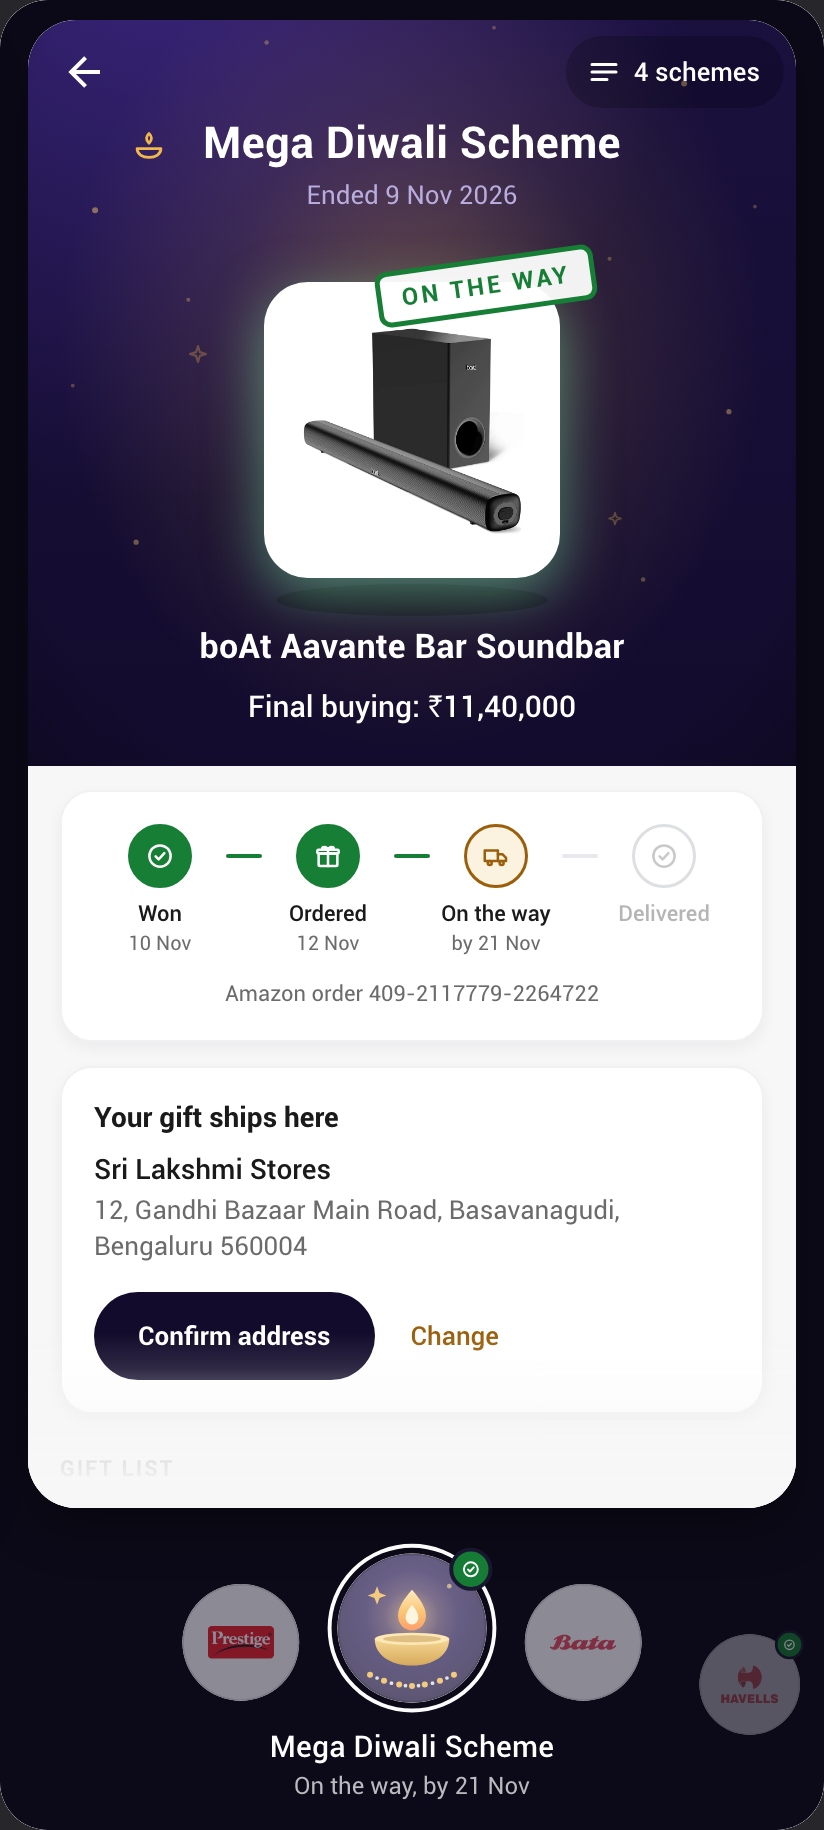
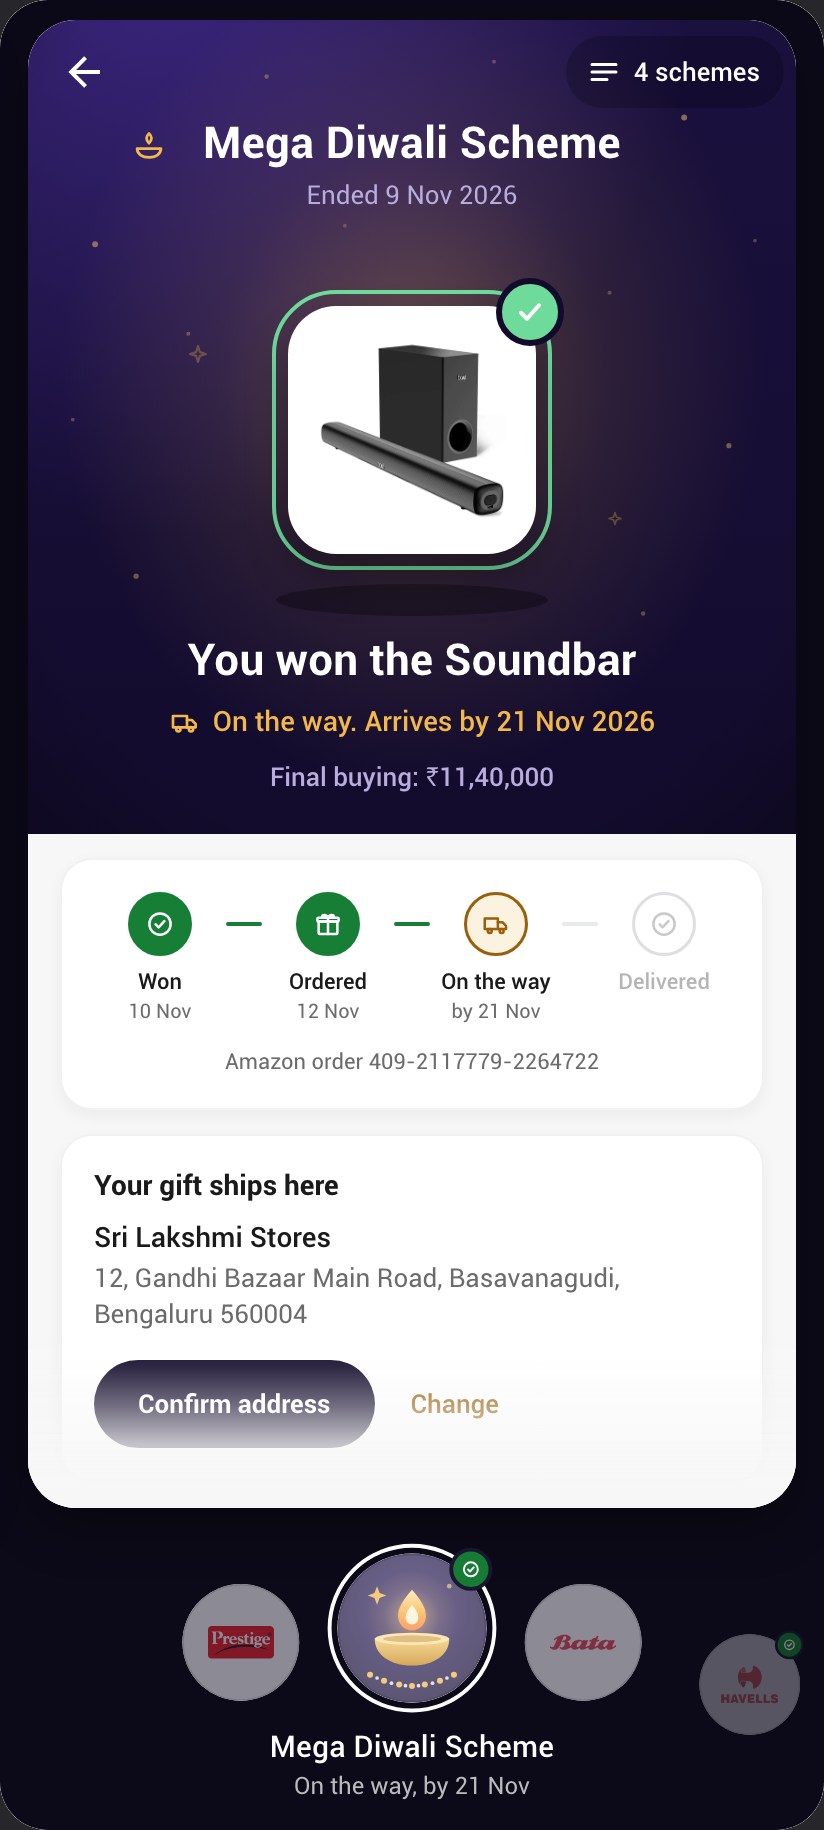
Won state: the ring and the seal replace the stamp
The won gift's tile wears the system's 'yours' ring (2 px settled green at
a 6 px gap) with a 34 px check seal cut into its corner; the sentence
'You won the X' leads at title weight; one status line in the colour of
its meaning carries the delivery. The rubber stamp is gone.

Changed region(s): [[0.0303, 0.1246, 0.9709, 0.8098], [0.5158, 0.6541, 0.7585, 0.7787]]

diff --git a/src/schemes/SchemePage.js b/src/schemes/SchemePage.js
@@ -19,7 +19,7 @@ import React, { useEffect, useRef, useState } from 'react';
 import { View, Text, Image, Pressable, ScrollView, StyleSheet, Animated, Easing, Platform } from 'react-native';
 import LottieView from 'lottie-react-native';
 import { LinearGradient } from 'expo-linear-gradient';
-import Svg, { Ellipse } from 'react-native-svg';
+import Svg, { Ellipse, Path } from 'react-native-svg';
 import { F } from '../theme';
 import { IconRunningMan, IconTargetFlag } from '../icons';
 import GiftGlyph from '../gifts/icons';
@@ -73,15 +73,17 @@ export function CtaButton({ label, bg, fg, glow = false, onPress, containerStyle
   );
 }
 
-// The stamp on a won gift: pressed onto the tile's corner, it lands with the
-// tile (opacity) and settles from 1.25 to 1, the way a stamp meets paper.
-function Stamp({ text, anim }) {
+// The seal on a won gift: the system's own "yours" mark, the green check, at
+// tile scale, set into the ring's top-right corner. It lands with the tile.
+function Seal({ anim, fill, cutout }) {
   return (
     <Animated.View
       pointerEvents="none"
-      style={[styles.stamp, { opacity: anim, transform: [{ rotate: '-8deg' }, { scale: anim.interpolate({ inputRange: [0, 1], outputRange: [1.25, 1] }) }] }]}
+      style={[styles.seal, { backgroundColor: fill, borderColor: cutout, opacity: anim, transform: [{ scale: anim.interpolate({ inputRange: [0, 1], outputRange: [0.6, 1] }) }] }]}
     >
-      <Text style={styles.stampText} allowFontScaling={false}>{text}</Text>
+      <Svg width={18} height={18} viewBox="0 0 24 24">
+        <Path d="M6 12.5l4 4 8-9" stroke="#fff" strokeWidth={2.6} strokeLinecap="round" strokeLinejoin="round" fill="none" />
+      </Svg>
     </Animated.View>
   );
 }
@@ -146,13 +148,14 @@ export default function SchemePage({ scheme, active, first, offset, bottomPad, o
   const deliveredLabel = scheme.fulfilment.deliveredAt ? ddMMM(scheme.fulfilment.deliveredAt) : '';
   const heroNote =
     s.state === STATE.SCHEDULED ? t.startsNote(s.startLabel)
-    : s.state === STATE.TOP_REACHED ? t.topNote(s.endLabel)
     : null;
   // The stepper below carries the delivery story; the stage does not repeat it.
-  const stampText =
-    s.state === STATE.DELIVERED ? t.stampDelivered
-    : s.state === STATE.GIFT_ORDERED ? t.stampOnTheWay
-    : t.stampWon;
+  // The won state's one status line, in the colour of its meaning.
+  const wonStatus =
+    s.state === STATE.DELIVERED ? { text: t.wonStatusDelivered(deliveredLabel), color: st.good, icon: 'check' }
+    : s.state === STATE.GIFT_ORDERED ? { text: t.wonStatusOnTheWay(scheme.deliverBy), color: st.accent, icon: 'truck' }
+    : s.state === STATE.TOP_REACHED ? { text: t.wonStatusTop(s.endLabel), color: st.sub, icon: 'gift' }
+    : { text: t.wonStatusPending, color: st.sub, icon: 'gift' };
 
   // Entrance values. The first page starts everything at 0 and stages it in.
   // Any other page starts its stage settled (1) and its meter empty (0), then
@@ -325,30 +328,47 @@ export default function SchemePage({ scheme, active, first, offset, bottomPad, o
                     {hero.label}
                   </Animated.Text>
                 )}
-                <View style={[styles.tileWrap, compact && styles.tileWrapCompact]}>
+                {/* A won gift wears the system's "yours" ring, 2 px of the settled green
+                    at a 6 px gap, concentric with the tile; the goal state wears none. */}
+                <Animated.View
+                  style={[
+                    styles.tileWrap,
+                    compact && styles.tileWrapCompact,
+                    hero.tone === 'won' && [styles.tileRing, { borderColor: st.good, opacity: tileA }],
+                  ]}
+                >
                 <Animated.View
                   style={[
                     styles.tile,
                     compact && styles.tileCompact,
-                    // A won gift is lit from within: a green glow, the settled colour.
-                    hero.tone === 'won' && { shadowColor: st.good, shadowOpacity: 0.55, shadowRadius: 28, shadowOffset: { width: 0, height: 8 } },
+                    hero.tone === 'won' && (compact ? styles.tileWonCompact : styles.tileWon),
                     { opacity: tileA, transform: [{ scale: tileA.interpolate({ inputRange: [0, 1], outputRange: [0.9, 1] }) }] },
                   ]}
                 >
                   {hero.gift.voucher ? (
-                    <GiftThumb gift={hero.gift} size={compact ? 112 : 128} />
+                    <GiftThumb gift={hero.gift} size={hero.tone === 'won' ? (compact ? 92 : 104) : compact ? 112 : 128} />
                   ) : hero.gift.image ? (
-                    <Image source={hero.gift.image} style={[styles.tileImg, compact && styles.tileImgCompact]} resizeMode="contain" />
+                    <Image source={hero.gift.image} style={[styles.tileImg, compact && styles.tileImgCompact, hero.tone === 'won' && (compact ? styles.tileImgWonCompact : styles.tileImgWon)]} resizeMode="contain" />
                   ) : (
                     <GiftGlyph kind={hero.gift.icon} size={80} color={st.accentDeep} strokeWidth={1.2} />
                   )}
                 </Animated.View>
-                {hero.tone === 'won' ? <Stamp text={stampText} anim={tileA} /> : null}
-                </View>
+                {hero.tone === 'won' ? <Seal anim={tileA} fill={th.card.good} cutout={st.ground2} /> : null}
+                </Animated.View>
               </Animated.View>
-              <Animated.Text style={[styles.giftName, { color: st.ink }, rise(nameA, 8), lag]} allowFontScaling={false}>
-                {hero.gift.name}
-              </Animated.Text>
+              {hero.tone === 'won' ? (
+                <Animated.View style={[rise(nameA, 8), lag]}>
+                  <Text style={[styles.wonHeadline, { color: st.ink }]} allowFontScaling={false}>{t.wonHeadline(hero.gift.shortName || hero.gift.name)}</Text>
+                  <View style={styles.wonStatusRow}>
+                    <GiftGlyph kind={wonStatus.icon} size={16} color={wonStatus.color} strokeWidth={2} />
+                    <Text style={[styles.wonStatus, { color: wonStatus.color }]} allowFontScaling={false}>{wonStatus.text}</Text>
+                  </View>
+                </Animated.View>
+              ) : (
+                <Animated.Text style={[styles.giftName, { color: st.ink }, rise(nameA, 8), lag]} allowFontScaling={false}>
+                  {hero.gift.name}
+                </Animated.Text>
+              )}
 
               {showBar ? (
                 <>
@@ -437,7 +457,7 @@ export default function SchemePage({ scheme, active, first, offset, bottomPad, o
                 <Animated.View style={rise(nameA, 8)}>
                   {heroNote ? <Text style={[styles.heroNote, { color: st.sub }]} allowFontScaling={false}>{heroNote}</Text> : null}
                   {s.earned ? (
-                    <Text style={[styles.finalBought, TABULAR, { color: st.ink }, !heroNote && { marginTop: 10 }]} allowFontScaling={false}>{t.finalBought(money(s.currentValue))}</Text>
+                    <Text style={[styles.finalBought, TABULAR, { color: heroNote ? st.ink : st.sub }, !heroNote && { marginTop: 10, fontSize: 13, lineHeight: 17 }]} allowFontScaling={false}>{t.finalBought(money(s.currentValue))}</Text>
                   ) : null}
                 </Animated.View>
               ) : null}
@@ -667,9 +687,18 @@ const styles = StyleSheet.create({
   heroLabel: { position: 'absolute', top: 18, fontFamily: F.bold, fontSize: 11, lineHeight: 15, letterSpacing: 1.2 },
   tileWrap: { marginTop: 16 },
   tileWrapCompact: { marginTop: 14 },
-  // The stamp: pressed onto the tile's corner, a hair off square, the settled green.
-  stamp: { position: 'absolute', top: -12, right: -18, borderWidth: 2.5, borderRadius: 6, paddingHorizontal: 10, paddingVertical: 4, backgroundColor: 'rgba(255,255,255,0.94)', borderColor: N.green },
-  stampText: { color: N.green, fontFamily: F.bold, fontSize: 12, lineHeight: 15, letterSpacing: 1.6 },
+  // The won ring: 2 px at a 6 px gap, outer radius = tile radius + 8 (concentric).
+  tileRing: { padding: 6, borderWidth: 2, borderRadius: 32 },
+  tileWon: { width: 136, height: 136, borderRadius: 24 },
+  tileWonCompact: { width: 124, height: 124, borderRadius: 24 },
+  tileImgWon: { width: 104, height: 104 },
+  tileImgWonCompact: { width: 94, height: 94 },
+  // The seal: a 34 px green disc with a white check, cut out of the ring's corner
+  // by a 3 px border in the stage's own colour.
+  seal: { position: 'absolute', top: -8, right: -8, width: 34, height: 34, borderRadius: 17, borderWidth: 3, alignItems: 'center', justifyContent: 'center' },
+  wonHeadline: { marginTop: 6, textAlign: 'center', fontFamily: F.bold, fontSize: 22, lineHeight: 28, paddingHorizontal: 24, letterSpacing: 0.1 },
+  wonStatusRow: { marginTop: 8, flexDirection: 'row', alignItems: 'center', justifyContent: 'center', gap: 6, paddingHorizontal: 24 },
+  wonStatus: { fontFamily: F.medium, fontSize: 14, lineHeight: 18, fontVariant: ['tabular-nums'] },
   tile: {
     width: 168,
     height: 168,

diff --git a/src/schemes/copy.js b/src/schemes/copy.js
@@ -46,9 +46,11 @@ export const T = {
       ...(ended ? [] : [['truck', `Amazon delivers to your shop by ${deliverBy}`]]),
     ],
     targetWord: 'Target',
-    stampWon: 'WON',
-    stampOnTheWay: 'ON THE WAY',
-    stampDelivered: 'DELIVERED',
+    wonHeadline: (short) => `You won the ${short}`,
+    wonStatusDelivered: (d) => `Delivered to your shop, ${d}`,
+    wonStatusOnTheWay: (by) => `On the way. Arrives by ${by}`,
+    wonStatusPending: 'Your gift is being confirmed',
+    wonStatusTop: (d) => `The top gift. We order it after ${d}`,
     running: 'RUNNING',
     completed: 'COMPLETED',
     emptyTitle: 'No schemes yet',
@@ -95,9 +97,11 @@ export const T = {
       ...(ended ? [] : [['truck', `Amazon से डिलीवरी, ${deliverBy} तक`]]),
     ],
     targetWord: 'टारगेट',
-    stampWon: 'जीता',
-    stampOnTheWay: 'रास्ते में',
-    stampDelivered: 'डिलीवर',
+    wonHeadline: (short) => `आपने ${short} जीता`,
+    wonStatusDelivered: (d) => `${d} को आपकी दुकान पर डिलीवर हुआ`,
+    wonStatusOnTheWay: (by) => `रास्ते में। ${by} तक पहुँचेगा`,
+    wonStatusPending: 'आपका गिफ़्ट कन्फ़र्म हो रहा है',
+    wonStatusTop: (d) => `टॉप गिफ़्ट। ${d} के बाद हम ऑर्डर करेंगे`,
     running: 'चल रही',
     completed: 'पूरी हुई',
     emptyTitle: 'अभी कोई स्कीम नहीं',

diff --git a/docs/SCHEME-DOCK.md b/docs/SCHEME-DOCK.md
@@ -201,18 +201,28 @@ peek nudge on arrival.
 
 ## Completed schemes
 
-A completed scheme with a gift reads as settled before a word is read:
+A completed scheme with a gift reads as settled before a word is read, in the
+system's own language for "this one is yours":
 
-- The won gift's tile carries a stamp on its top-right corner, a hair off square
-  (rotated 8 degrees): WON, ON THE WAY, or DELIVERED, in the settled green on white,
-  2.5 px border. It lands with the tile and settles from 1.25 to 1, the way a stamp
-  meets paper.
-- The tile glows green from within (the theme's `good` colour at 55 %, 28 px).
-- The stage carries no meter, no ask, and no note that repeats the stepper. It shows
-  the gift, the stamp and "Final buying".
-- After delivery the address card is gone; the gift has arrived. The list starts one
-  card earlier, so the fold slices a gift row again.
-- On the arc and in the list, the scheme's art dims and carries the green check.
+- The won gift's tile wears a 2 px ring of the settled green at a 6 px gap,
+  concentric with the tile (outer radius = tile radius + 8). The goal state wears no
+  ring.
+- A 34 px green seal with a white check sits in the ring's top-right corner, cut out
+  of the ring by a 3 px border in the stage's own colour. It lands with the tile and
+  settles from 0.6 to 1. This is the same check the medallions, the dock thumbs and
+  the arc thumbs carry for a won gift, at tile scale.
+- The tile is smaller than a goal tile (124 px in the sheet, 136 px full), because the
+  object is no longer the thing to reach for.
+- The sentence leads: "You won the Air Fryer" at 22 px Bold, the title's weight. Under
+  it, one status line in the colour of its meaning, with its glyph: "Delivered to your
+  shop, 24 Sep" in green with a check; "On the way. Arrives by 21 Nov 2026" in the
+  accent with a truck; "Your gift is being confirmed" muted with a gift.
+- "Final buying" follows, muted, 13 px.
+- No meter, no ask, no note that repeats the stepper. After delivery the address card
+  is gone.
+
+A rubber stamp was tried and rejected: it is a cliché, and it fights the tile instead
+of changing what the tile is.
 
 ## Numbers
 
